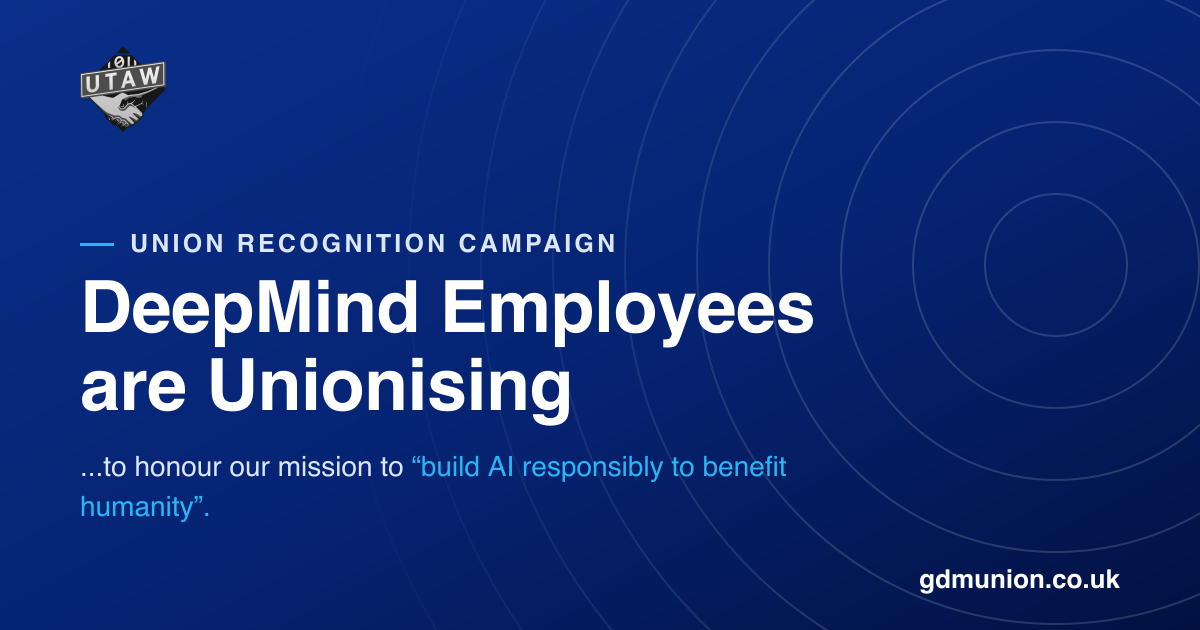
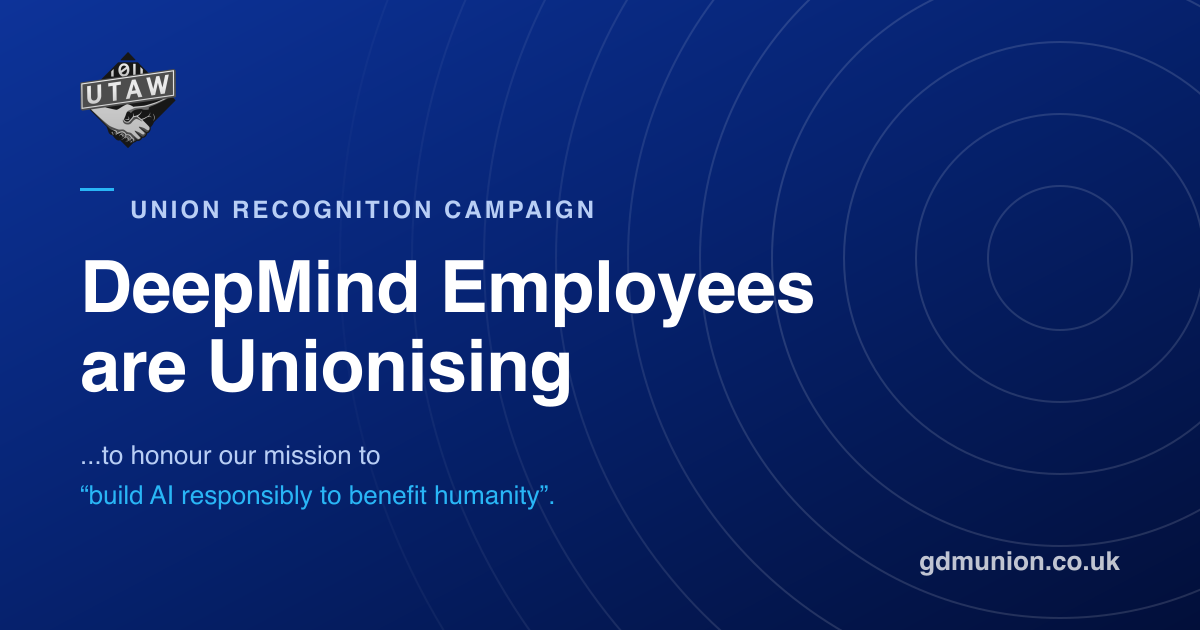
Polish OG/social preview image and meta tags
- Redesign og-image: hero radar-ring motif, UTAW logo, correct hero text
- Fix M-glyph rendering bug (font-family text + embedded Barlow fonts in SVG)
- Fill twitter:title and twitter:description placeholders
- Update description copy to name the three concrete stakes

diff --git a/templates/index.html b/templates/index.html
@@ -4,20 +4,22 @@
   <meta charset="UTF-8">
   <meta name="viewport" content="width=device-width, initial-scale=1.0">
   <title>{{ config.title }}</title>
-  <meta name="description" content="{{ config.description }}">
-  <meta property="og:title"       content="{{ config.title }}">
-  <meta property="og:description" content="{{ config.description }}">
-  <meta property="og:type"        content="website">
-  <meta property="og:url"         content="{{ config.base_url }}">
-  <meta property="og:site_name"   content="GDM Union">
-  <meta property="og:locale"      content="en_GB">
-  <meta property="og:image"       content="{{ get_url(path='og-image.png') }}">
+  <meta name="description"         content="{{ config.description }}">
+
+  <meta property="og:site_name"    content="{{ config.title }}">
+  <meta property="og:type"         content="website">
+  <meta property="og:url"          content="{{ config.base_url }}">
+  <meta property="og:locale"       content="en_GB">
+  <meta property="og:title"        content="GDM Union — DeepMind Employees are Unionising">
+  <meta property="og:description"  content="{{ config.description }}">
+  <meta property="og:image"        content="{{ get_url(path='og-image.png') }}">
   <meta property="og:image:width"  content="1200">
   <meta property="og:image:height" content="630">
-  <meta property="og:image:alt"   content="GDM Union — DeepMind employees are unionising with UTAW">
+  <meta property="og:image:alt"    content="DeepMind Employees are Unionising — Union Recognition Campaign with UTAW">
+
   <meta name="twitter:card"        content="summary_large_image">
-  <meta name="twitter:title"       content="...">
-  <meta name="twitter:description" content="...">
+  <meta name="twitter:title"       content="GDM Union — DeepMind Employees are Unionising">
+  <meta name="twitter:description" content="{{ config.description }}">
   <meta name="twitter:image"       content="{{ get_url(path='og-image.png') }}">
   <link rel="icon" href="{{ get_url(path='favicon.ico') }}" sizes="any">
   <link rel="icon" type="image/png" href="{{ get_url(path='favicon-32.png') }}" sizes="32x32">